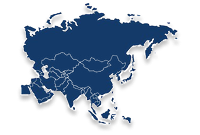
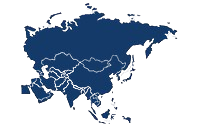
Atualização Pagina Original :D

diff --git a/pages/index.html b/pages/index.html
@@ -90,24 +90,37 @@
 
 
         <div class="carrossel-track" id="amSul">
-          <img class="continentesSilhueta" src="/assets/americaSul.png" alt="Disney" />
+          <div class="continente">
+            <img class="continentesSilhueta" src="/assets/americaSul.png" alt="Disney" />
+            <h3>AMÉRICA DO SUL</h3>
+          </div>
         </div>
 
+
         <div class="carrossel-track" id="amNor">
-          <img class="continentesSilhueta" src="/assets/americaNorte.png" alt="Disney" />
+          <div class="continente">
+            <img class="continentesSilhueta" src="/assets/americaNorte.png" alt="Disney" />
+            <h3>AMÉRICA DO NORTE</h3>
+          </div>
         </div>
 
         <div class="carrossel-track" id="asia">
-          <img class="continentesSilhueta" src="/assets/asia.png" alt="Disney" />
+          <div class="continente">
+            <img class="continentesSilhueta" src="/assets/asia.png" alt="Disney" />
+            <h3>ÁSIA</h3>
+          </div>
         </div>
 
 
         <div class="carrossel-track" id="eur">
-          <img class="continentesSilhueta" src="/assets/europa.png" alt="Disney" />
+          <div class="continente">>
+            <img class="continentesSilhueta" src="/assets/europa.png" alt="Disney" />
+            <h3>EUROPA</h3>
+          </div>
         </div>
 
       </div>
-      
+
     </section>
 
     <section class="pacotes">

diff --git a/css/inicio.css b/css/inicio.css
@@ -26,6 +26,7 @@ h2 {
 .continentesSilhueta {
     width: 70%;
     height: 200px;
+    margin: 0 auto;
 }
 
 .continentes {
@@ -131,4 +132,10 @@ h2 {
 
 #eup{
   margin-left: 50px;
+}
+
+h3 {
+  color: #365db5;
+  font-weight: bold;
+  
 }
